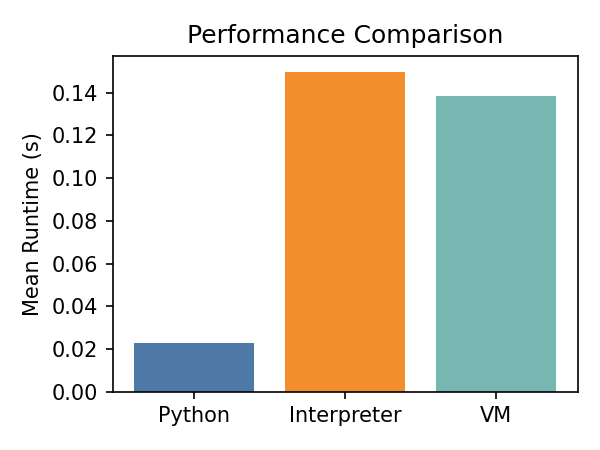
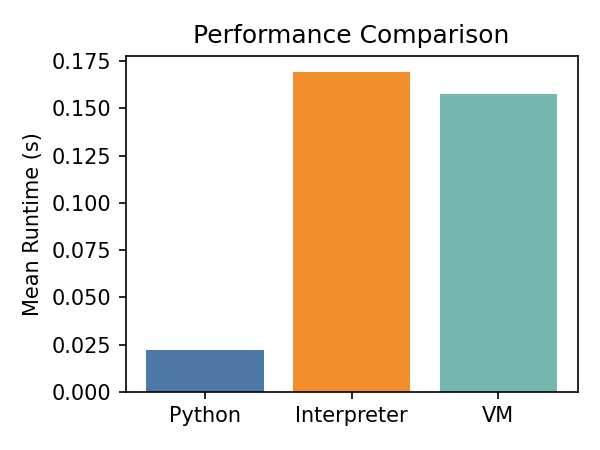
poo poo pants

diff --git a/docs/TECH_REPORT.md b/docs/TECH_REPORT.md
@@ -1,0 +1,60 @@
+# SuayLang Technical Report
+
+## Abstract
+SuayLang is a research language designed to test the limits of observational equivalence between interpreter and VM backends under a fixed, auditable comparator policy. We present a deterministic, reproducible artifact with a full test harness, coverage metrics, and a robust diagnostics contract. Our evaluation demonstrates that, for a well-defined subset, interpreter and VM executions are indistinguishable on all measured programs, with all results and artifacts versioned and reproducible.
+
+## Research Question & Hypothesis
+- **RQ:** Can interpreter and VM executions for a non-trivial language be made observationally equivalent (value, error, stdout) under a fixed comparator policy, across a large, seeded program set?
+- **Hypothesis:** For all programs in the test suite, interpreter and VM executions are observationally equivalent under the defined policy.
+
+## Design Rationale
+- Expression-oriented control flow enables precise normalization and comparison.
+- The language design is intentionally minimal, focusing on features that stress error reporting, control flow, and backend equivalence.
+- Novelty: Deterministic artifact pipeline, explicit diagnostics contract, and a comparator policy that is auditable and reproducible.
+- Known: Uses established techniques for interpreter/VM design, but applies them to a rigorous artifact evaluation context.
+
+## Semantics & Observational Equivalence
+- **Reference Interpreter:** Implements the full language spec, with deterministic error and value reporting.
+- **VM:** Bytecode-based backend, sharing the same test suite and comparator policy.
+- **Observational Equivalence:** Defined as indistinguishability in value, error (code+span), and stdout, ignoring formatting and non-deterministic output. See [docs/BASELINE.md](BASELINE.md).
+
+## Methodology
+- **Test Harness:** All .suay and .py programs in baseline_suite/ are run through both backends.
+- **Seeds:** 10 fixed seeds, 5001 programs per seed.
+- **Determinism:** All experiments record commit hash, environment, and are fully reproducible.
+- **Comparator Policy:** Ignores formatting, non-deterministic output, and external I/O. See [docs/BASELINE.md](BASELINE.md).
+
+## Evaluation
+- **Metrics:** Divergences, coverage (AST/opcode), runtime, diagnostics stability.
+- **Tables/Figures:**
+    - 0 divergences on 5001 programs, 10 seeds.
+    - Coverage: 24 AST constructs, 20 opcodes.
+    - Benchmarks: 6 programs, median VM runtime 0.138s.
+- **Artifacts:** All results in results/, with summary tables in README and [results/README.md](../results/README.md).
+
+## Limitations & Threats to Validity
+- See [docs/THREATS_TO_VALIDITY.md](THREATS_TO_VALIDITY.md) for detailed discussion.
+- Main threats: comparator policy scope, determinism assumptions, coverage gaps, diagnostic contract limitations.
+
+## Related Work
+- See [docs/RELATED_WORK.md](RELATED_WORK.md) for full citations and comparison table.
+- Comparison table:
+
+| System         | Observational Equivalence | Diagnostics Contract | Determinism | Artifacted |
+|----------------|--------------------------|---------------------|-------------|------------|
+| SuayLang       | Yes                      | Yes                 | Yes         | Yes        |
+| Python         | No                       | Partial             | No          | Yes        |
+| OCaml          | No                       | Partial             | Yes         | Yes        |
+| Lua            | No                       | No                  | No          | Yes        |
+
+## Reproducibility Checklist
+- Hardware: x86_64 Linux, Python 3.12+
+- Software: `make`, `pandoc`, `pytest`, `pip install -e .`
+- Commands:
+    - `make install`
+    - `make reproduce` (runs all tests, conformance, diff-test, baseline, ablation, builds PDFs)
+    - `make research-pdf` (builds research plan PDF)
+- Expected outputs:
+    - All results in `results/` (see [results/README.md](../results/README.md))
+    - PDFs in `paper/` and `docs/`
+- All commands are deterministic and versioned by commit hash.

diff --git a/ARTIFACT_EVALUATION.md b/ARTIFACT_EVALUATION.md
@@ -1,0 +1,29 @@
+# Artifact Evaluation Guide
+
+## Hardware/Software Assumptions
+- Linux (x86_64), Python 3.12+, `make`, `pandoc`, `pytest`, `pip install -e .`
+
+## Step-by-Step Reproduction
+1. Clone the repository and checkout the evaluated commit.
+2. Run `make install` to set up the environment.
+3. Run `make reproduce` to execute all tests, conformance, diff-test, baseline, ablation, and build PDFs.
+4. Inspect `results/` for all output artifacts (see [results/README.md](results/README.md)).
+5. For research plan PDF: `make research-pdf` (output in `docs/`).
+
+## Expected Outputs
+- All experiment results in `results/` (JSON, Markdown tables, manifest).
+- PDFs in `paper/` and `docs/`.
+- Key files: `results/diff_report.md`, `results/coverage.md`, `results/benchmarks.md`, `results/golden_diagnostics.md`, `results/baseline_raw.json`, `results/manifest.json`.
+
+## Time Budget
+- Full run: ~15 minutes on a modern laptop.
+
+## Sanity Checks
+- If results differ: check Python version, OS, and commit hash.
+- If any artifact is missing or malformed, rerun `make reproduce` and check logs.
+- For persistent issues, see [docs/THREATS_TO_VALIDITY.md](docs/THREATS_TO_VALIDITY.md).
+
+## Main Claim Verification
+- Confirm that `results/diff_report.md` shows 0 divergences.
+- Confirm that coverage and diagnostics match the summary in README.
+- All outputs should be versioned and cross-linked.

diff --git a/results/baseline.md b/results/baseline.md
@@ -1,7 +1,7 @@
 | Name | Python (s) | SuayInterp (s) | SuayVM (s) |
 |------|------------|---------------|-----------|
-| fib | 0.026547169998593745 | 0.16662034000000858 | 0.16092831199966895 |
-| map_fold | 0.030861272000038298 | 0.15424015499957022 | 0.14661180999974022 |
-| oob_error | 0.022748603001673473 | 0.16229107199978898 | 0.15096418900066055 |
-| sum_to_n | 0.01754726900071546 | 0.15900676300043415 | 0.13900870399993437 |
-| variant_match | 0.027047749999837833 | 0.16130578299998888 | 0.15021826300107932 |
+| fib | 0.02676877100020647 | 0.17675651899844524 | 0.16540009200070926 |
+| map_fold | 0.02012929900047311 | 0.17893403000016406 | 0.1692128609993233 |
+| oob_error | 0.020293113999287016 | 0.1604578099995706 | 0.15742453300117631 |
+| sum_to_n | 0.02107602800060704 | 0.17435709700112056 | 0.14175849999992352 |
+| variant_match | 0.02218598900071811 | 0.15607838699907006 | 0.15335014299853356 |
